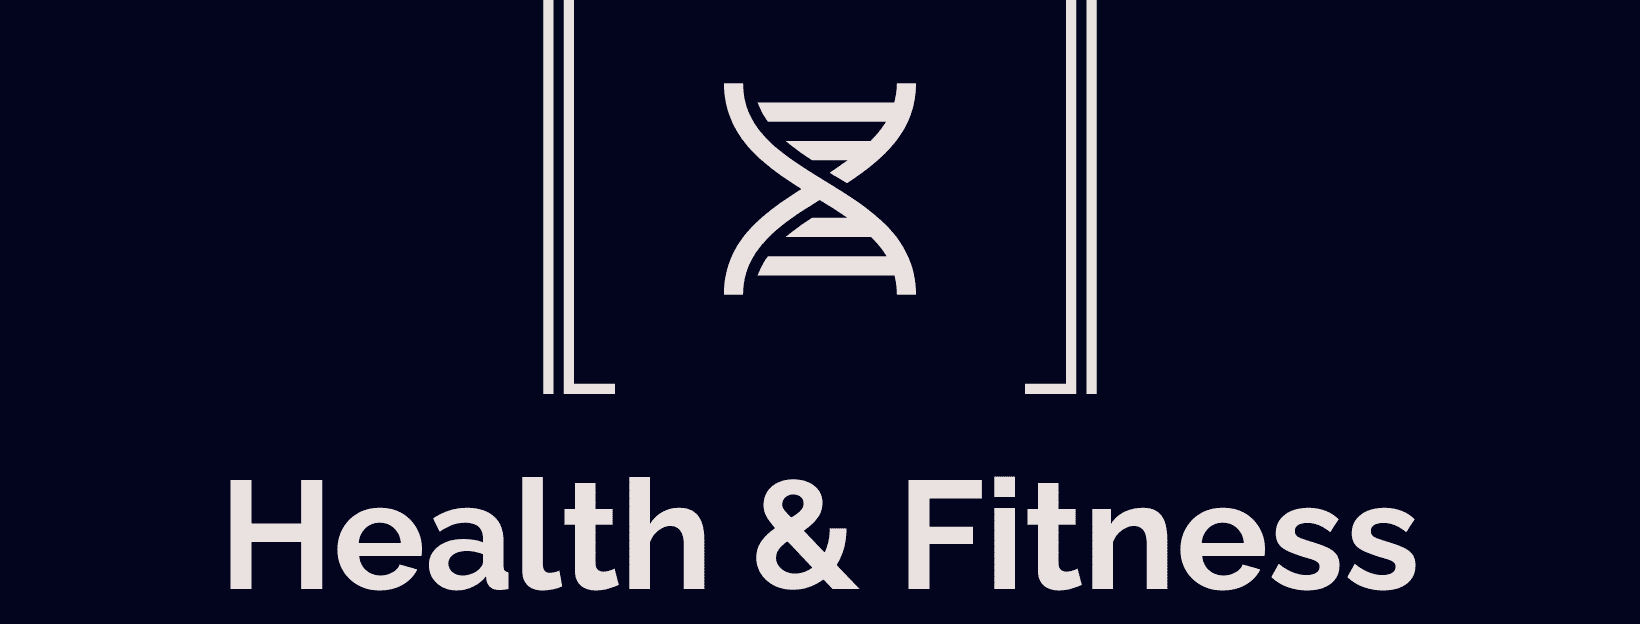
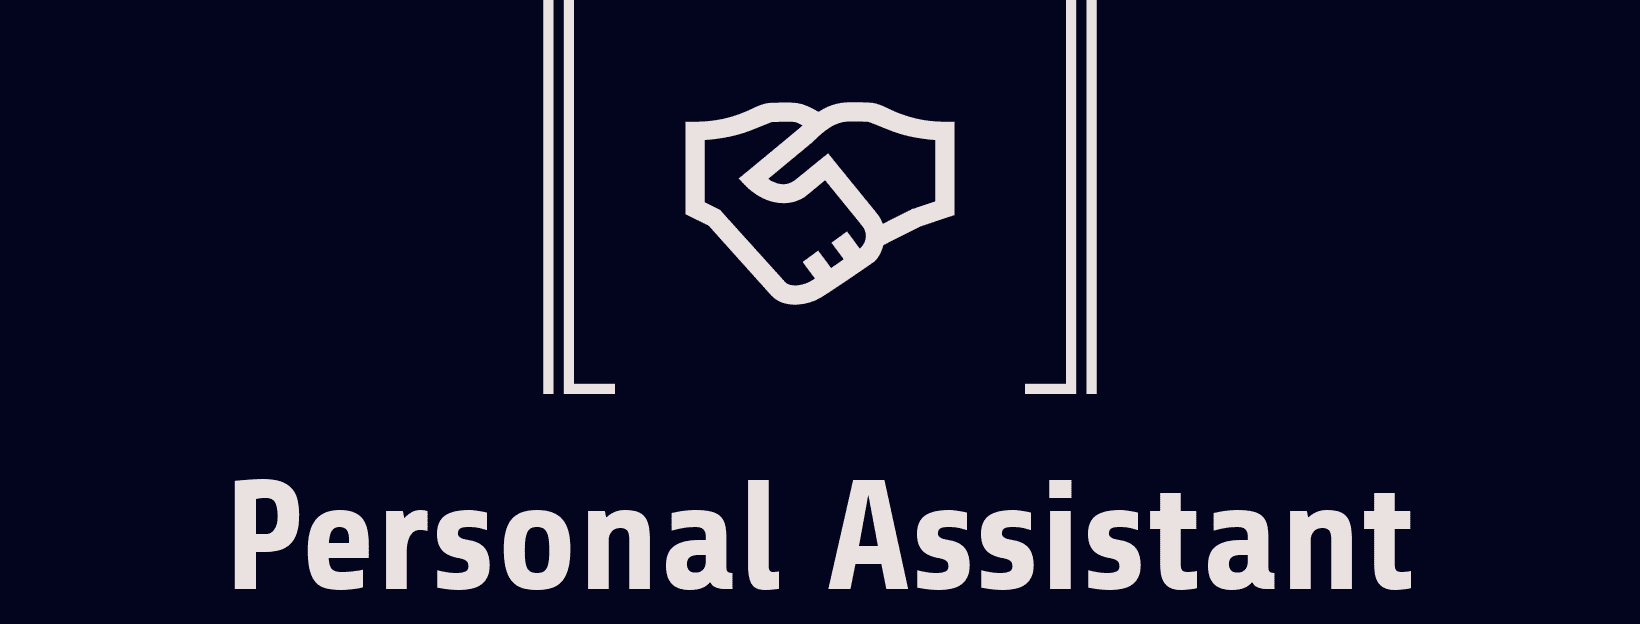
change direction

Changed region(s): [[0.1244, 0.7612, 0.8707, 0.9439], [0.4043, 0.1218, 0.5909, 0.4872]]

diff --git a/app/components/Navbar.js b/app/components/Navbar.js
@@ -1,177 +1,23 @@
-import { signin, signout, useSession } from 'next-auth/client'
-import { useState, useEffect } from 'react';
-import FitnessCenterIcon from "@material-ui/icons/FitnessCenter";
-import SearchIcon from '@material-ui/icons/Search';
-import ShoppingBasketIcon from '@material-ui/icons/ShoppingBasket';
 import Link from 'next/link';
-import { useStateValue } from '../context/StateProvider';
 
 const Navbar = () => {
-  const [state, dispatch] = useStateValue();
-  const [session, loading] = useSession();
-  const [user, setUser] = useState({});
 
-  useEffect(async () => {
-    try {
-      const res = await fetch('/api/get-session');
-      const data = await res.json();
-      if (res.status !== 401) {
-        setUser({
-          name: data.user.name,
-          email: data.user.email,
-          image: data.user.image
-        });
-        dispatch({
-          type: 'SET_USER',
-          user: {
-            name: data.user.name,
-            email: data.user.email,
-            image: data.user.image
-          }
-        });
-      }
-    } catch (error) {
-      console.error(error);
-      setUser({
-        name: null,
-        email: null,
-        image: null
-      });
-      dispatch({
-        type: 'DELETE_USER',
-        user: {
-          name: null,
-          email: null,
-          image: null,
-        }
-      });
-    }
-  }, [session])
-
-  const toggleNavMenu = () => {
-    console.log(document.getElementById('navbar_nav_links').classList);
-    document.getElementById('navbar_nav_links').classList.toggle('hidden');
-  }
-
-  const search = () => {
-    let item = document.getElementById('search-input').value;
-    console.log('search input: ', item);
-    document.getElementById('search-input').value = null;
-  }
-
-  const signIn = (e) => {
-    e.preventDefault();
-    signin(null, { callbackUrl: 'http://localhost:3000/' });
-  }
-  const signOut = (e) => {
-    e.preventDefault();
-    signout();
-  }
   return (
-    <div className="flex flex-row flex-nowrap items-center justify-between h-16 bg-dark-blue select-none">
-      {/* logo */}
+    <nav className="flex flex-row flex-nowrap items-center justify-between select-none">
       <Link href="/">
-        <a className="flex flex-row justify-center items-center -ml-2.5">
+        <a className="flex flex-row justify-center items-center -ml-2.5 opacity-100 z-10">
           <img
-            className="w-32"
-            src="/logo_transparent.png" alt="" />
+            className="w-32 -mt-6"
+            src="/logo_transparent.png" alt="health and fitness" />
         </a>
       </Link>
 
-      {/* search box */}
-      <div className="flex items-center w-3/5 md:w-5/12">
-        <input
-          id="search-input"
-          className="h-8 w-full pl-1 border-2 outline-none"
-          placeholder="Search"
-          type="text" />
-        <SearchIcon
-          fontSize="large"
-          onClick={search}
-          className="text-yellow-200 text-5xl ml-2 w-4 h-6 cursor-pointer" />
+      <div className="flex flex-col justify-center items-center mx-5 -mt-8 z-10">
+        <Link href="/login">
+          <a className="text-white text-2xl">LOG IN</a>
+        </Link>
       </div>
-
-      {/* links */}
-      <div className="flex flex-col justify-center items-center mx-2.5 md:flex-row md:w-5/12">
-
-        {/* hide button on md screens */}
-        <button
-          className="w-11 cursor-pointer border-none focus:outline-none md:hidden"
-          onClick={toggleNavMenu}
-        >
-          <div className="bg-white w-full h-1 my-0"></div>
-          <div className="bg-white w-full h-1 my-2.5"></div>
-          <div className="bg-white w-full h-1 my-0"></div>
-        </button>
-
-        {/* initially hidden on small screens */}
-        {/* shown on md screens and above */}
-        <div
-          id="navbar_nav_links"
-          className="hidden flex flex-col absolute top-16 left-0 right-0 items-center w-full bg-dark-blue text-white select-none md:flex md:flex-row md:relative md:top-0 md:flex-nowrap">
-          <Link href='/'>
-            <div className="flex justify-center w-full h-4 my-3 md:flex-col">
-              <span className="">
-                Hello,   &nbsp;{'|'}&nbsp;{user.name ? user.name : 'Guest'}
-              </span>
-              <span className="cursor-pointer underline md:w-32">
-                {!session && (
-                  <a
-                    className="ml-2"
-                    href="/api/auth/signin"
-                    onClick={signIn}
-                  >
-                    Sign in
-                  </a>
-                )}
-                {session && (
-                  <>
-                    <Link href="/profile">
-                      <a>
-                        <span
-                          style={{ backgroundImage: `url(${session.user.image})` }}
-                        />
-                      </a>
-                    </Link>
-                    <a
-                      href="/api/auth/signout"
-                      onClick={signOut}>
-                      &nbsp;{' |'} Sign out
-                    </a>
-                  </>
-                )}
-              </span>
-            </div>
-          </Link>
-
-          <Link href="/orders">
-            <div className="flex justify-center w-full h-4 my-3 cursor-pointer">
-              <span>
-                Orders
-              </span>
-            </div>
-          </Link>
-
-          <Link href="/account">
-            <div className="flex justify-center w-full h-4 my-3 cursor-pointer">
-              <span>
-                Account
-              </span>
-            </div>
-          </Link>
-
-          <Link href="/checkout">
-            <div className="flex justify-center w-full h-4 my-3 mb-5 cursor-pointer">
-              <ShoppingBasketIcon />
-              <span>
-                {state.basket?.length}
-              </span>
-            </div>
-          </Link>
-        </div>
-        {/* end of hidden link content on small screens */}
-      </div>
-    </div>
+    </nav>
   )
 }
 

diff --git a/app/components/Home.js b/app/components/Home.js
@@ -1,34 +1,26 @@
-import Product from './Product';
+import AssistantIcon from '@material-ui/icons/Assistant';
+import ScheduleIcon from '@material-ui/icons/Schedule';
+import PostAddIcon from '@material-ui/icons/PostAdd';
 
 const Home = () => {
   return (
-    <div className="">
-      <div className="">
-        <div className="">
-          {/* https://nextjs.org/docs/api-reference/next/image */}
-          <img
-            src="business-card.jpg" alt="business card" />
-          <button>
-            Shop now
-          </button>
-        </div>
-
-        <div>
-          <Product id="13534" title="The Lean Startup" price={30.12} image="https://via.placeholder.com/200x300?text=Product+Image" rating={4} />
-          <Product id="" title="The Lean Startup" price={30.12} image="https://via.placeholder.com/200x300?text=Product+Image" rating={5} />
-        </div>
-        <div>
-          <Product id="56354" title="The Lean Startup" price={30.12} image="https://via.placeholder.com/200x300?text=Product+Image" rating={5} />
-          <Product id="45234" title="The Lean Startup" price={30.12} image="https://via.placeholder.com/200x300?text=Product+Image" rating={3} />
-          <Product id="58284" title="The Lean Startup" price={30.12} image="https://via.placeholder.com/200x300?text=Product+Image" rating={4} />
-        </div>
-
-        <div>
-          <Product id="98233" title="The Lean Startup" price={30.12} image="https://via.placeholder.com/200x300?text=Product+Image" rating={5} />
-        </div>
-
-      </div>
-    </div>
+    <main className="flex w-full justify-center text-black relative">
+      <article className="flex flex-col w-11/12">
+        <section className="flex flex-row my-4">
+          <AssistantIcon
+            fontSize="large" />
+          <p>Hire the assistant with the skills to help you run your business smoothly.</p>
+        </section>
+        <section className="flex flex-row my-4">
+          <ScheduleIcon fontSize="large" />
+          <p>Create a calendar to manage your scheduled dead-lines.</p>
+        </section>
+        <section className="flex flex-row my-4 justify-between">
+          <PostAddIcon fontSize="large" />
+          <p>Bill by the task or group all tasks into one invoice. The choice is yours.</p>
+        </section>
+      </article>
+    </main>
   )
 }
 

diff --git a/app/components/Header.js b/app/components/Header.js
@@ -1,0 +1,14 @@
+import Image from 'next/image';
+export default function Header() {
+  return (
+    <header
+      className="-mt-28 bg-black h-96 w-full mb-16 flex flex-col justify-end text-white">
+      <div className="flex flex-col content-start mb-14">
+        <h3 className="text-3xl mx-8 mb-4">Get more accomplished in less time</h3>
+        <p className="mx-8">Personal Assistant&copy; makes it simple to find the help you need: find yours today to get started.</p>
+      </div>
+      <button
+        className="bg-green-500 text-white w-max ml-8 mb-8 py-2 px-4 rounded-sm font-semibold">FIND AN ASSISTANT</button>
+    </header>
+  )
+}

diff --git a/app/pages/index.js b/app/pages/index.js
@@ -1,10 +1,12 @@
 import Layout from '../components/Layout';
+import Header from '../components/Header';
 import Home from '../components/Home';
 
 export default function App() {
   return (
     <Layout>
-      {/* <Home /> */}
+      <Header />
+      <Home />
     </Layout>
   )
 }

diff --git a/app/components/Layout.js b/app/components/Layout.js
@@ -9,9 +9,7 @@ const Layout = (props) => {
         <link rel="icon" href="/favicon.ico" />
       </Head>
       <Navbar />
-      <main>
-        <div>{props.children}</div>
-      </main>
+      {props.children}
     </>
   )
 }
